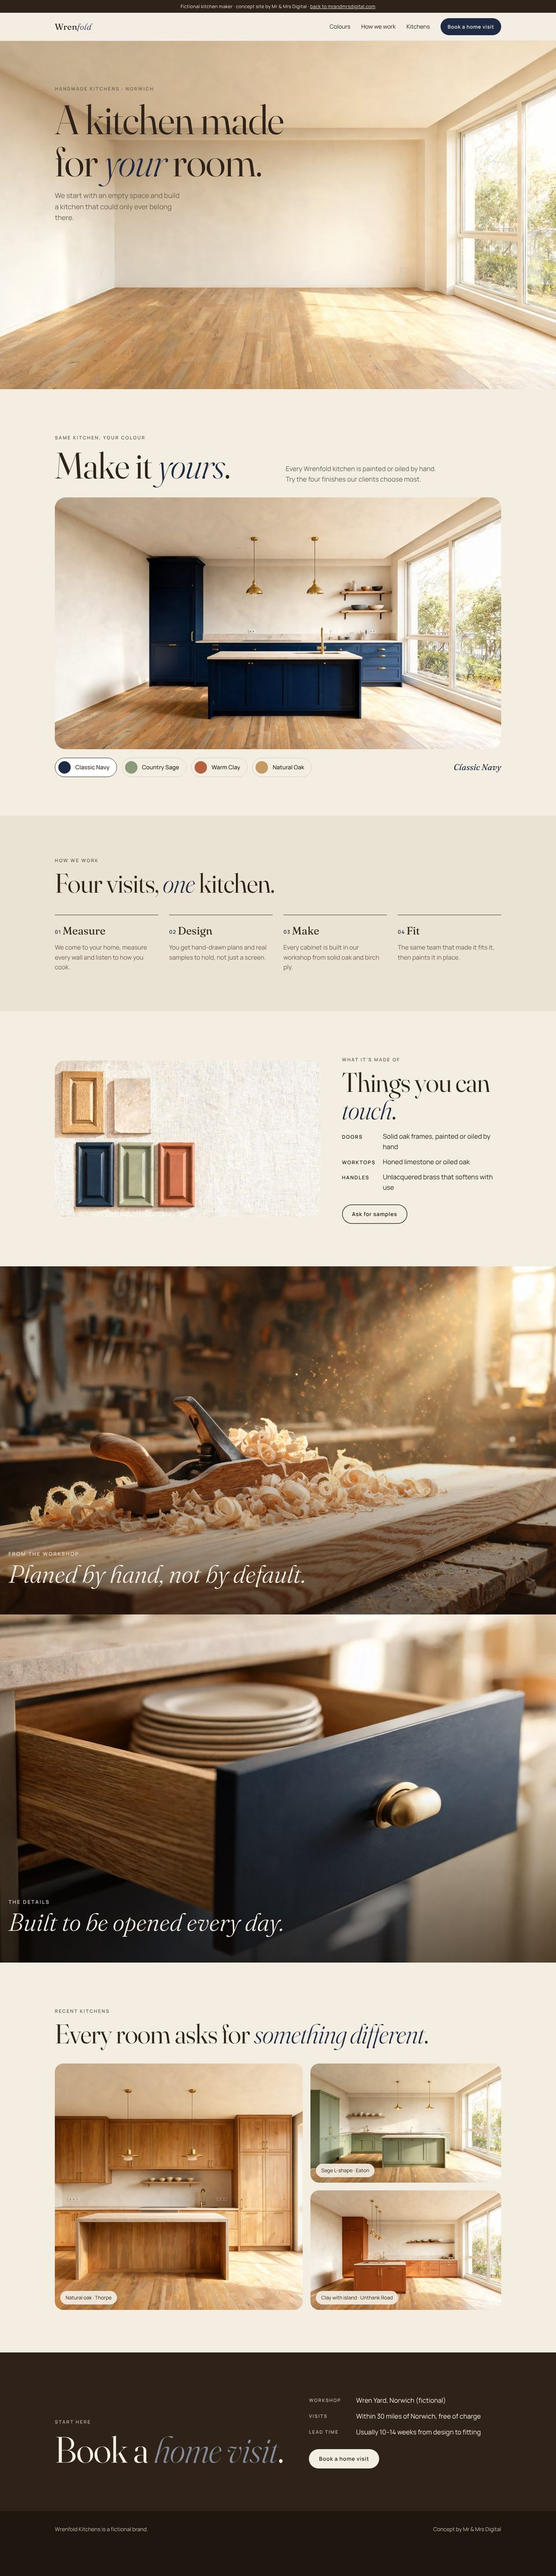
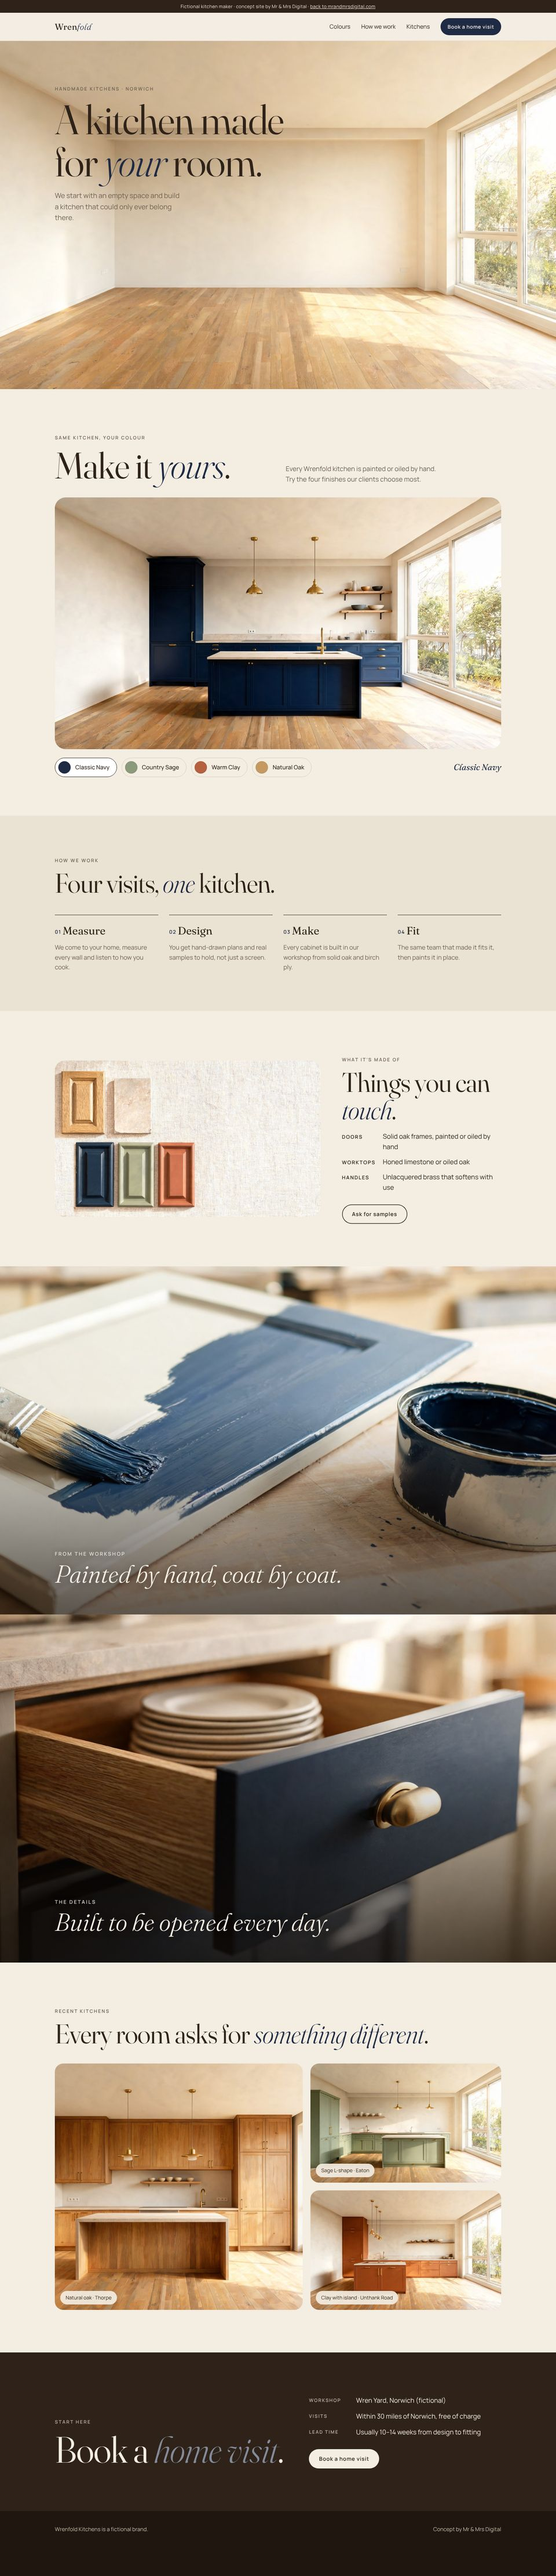
Wrenfold: replace hand-plane shot with painting detail
Claude-Session: https://claude.ai/code/session_01346nnvGcV7xkFBPBQFDuSC

Changed region(s): [[0.0, 0.4662, 1.0, 0.6527], [0.7188, 0.6838, 0.7812, 0.7459]]

diff --git a/concepts/wrenfold/index.html b/concepts/wrenfold/index.html
@@ -111,8 +111,8 @@ h1 em,h2 em{font-style:italic;font-weight:300;color:var(--accent)}
 /* 5. workshop: cinematic full-bleed */
 .shot{position:relative;height:100svh;min-height:520px;overflow:hidden}
 .shot img{position:absolute;inset:0;width:100%;height:100%;object-fit:cover}
-.shot::after{content:"";position:absolute;inset:0;background:linear-gradient(180deg,transparent 50%,rgba(20,14,10,.55))}
-.shot p{position:absolute;left:0;right:0;bottom:clamp(36px,8vh,80px);z-index:2;margin:0;color:#F6EFE4;font-family:var(--display);font-style:italic;font-weight:300;font-size:clamp(34px,5vw,64px);line-height:1.05}
+.shot::after{content:"";position:absolute;inset:0;background:linear-gradient(180deg,transparent 40%,rgba(20,14,10,.68))}
+.shot p{position:absolute;left:0;right:0;bottom:clamp(36px,8vh,80px);z-index:2;margin:0 auto;text-shadow:0 1px 18px rgba(20,14,10,.45);color:#F6EFE4;font-family:var(--display);font-style:italic;font-weight:300;font-size:clamp(34px,5vw,64px);line-height:1.05}
 .shot small{display:block;font-family:var(--body);font-style:normal;font-size:13px;font-weight:600;letter-spacing:.2em;text-transform:uppercase;margin-bottom:10px;opacity:.85}
 @media (max-width:760px){.shot{height:78svh}}
 
@@ -221,8 +221,8 @@ footer .wrap{display:flex;justify-content:space-between;gap:16px;flex-wrap:wrap}
   </section>
 
   <section class="shot" aria-label="From the workshop">
-    <img src="img/workshop-plane.jpg" alt="A hand plane and fresh oak shavings on a workbench in morning light" loading="lazy">
-    <p class="wrap"><small>From the workshop</small>Planed by hand, not by default.</p>
+    <img src="img/workshop-paint.jpg" alt="A brush laying navy paint onto a shaker cabinet door, an open paint tin beside it" style="object-position:30% 50%" loading="lazy">
+    <p class="wrap"><small>From the workshop</small>Painted by hand, coat by coat.</p>
   </section>
   <section class="shot" aria-label="Finished detail">
     <img src="img/drawer.jpg" alt="A navy drawer with a brass handle pulled open to show an oak drawer box with plates" loading="lazy">
